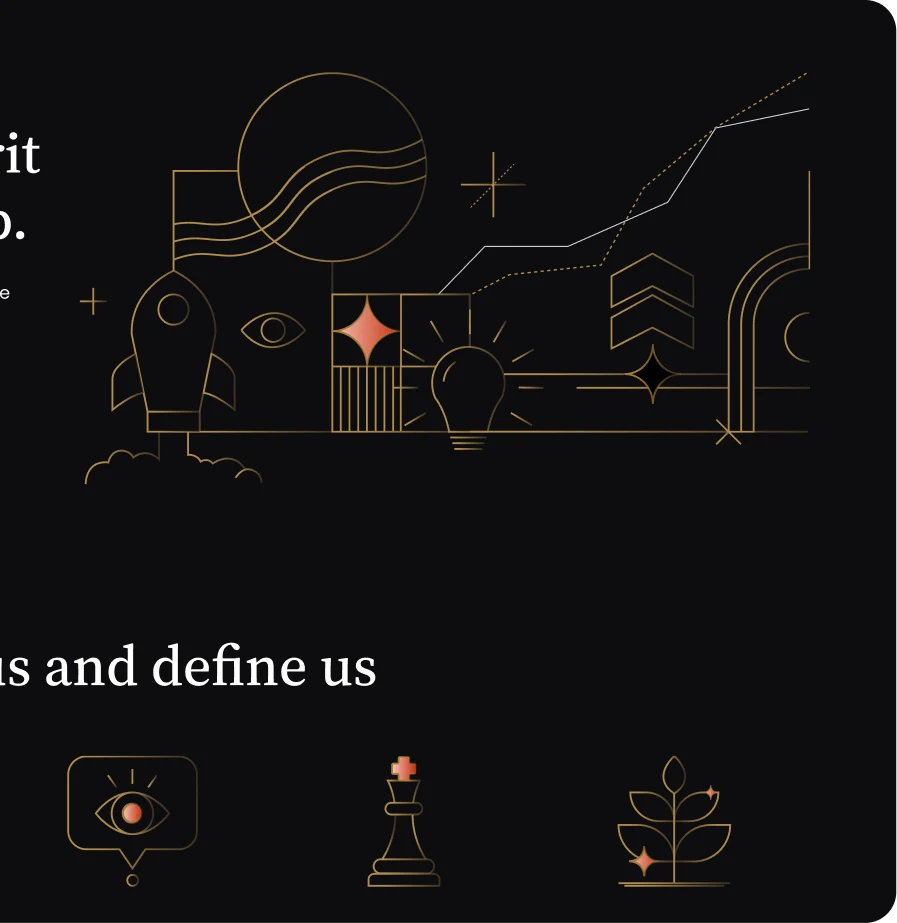
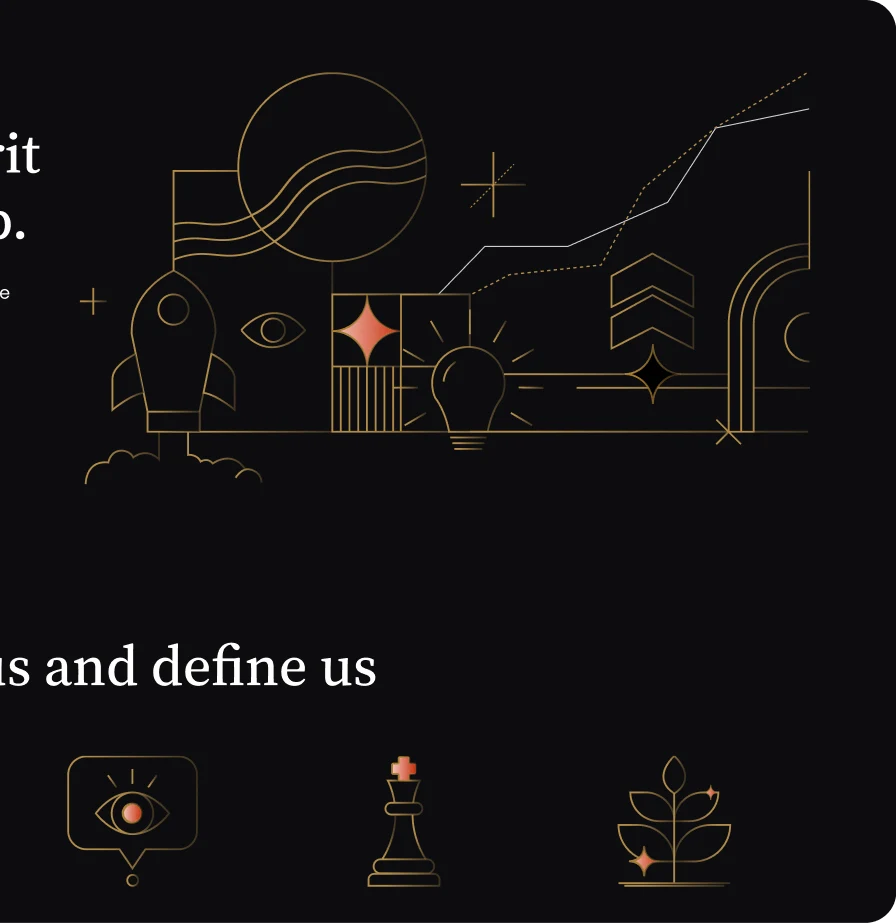
Work page thumbnails: Juice, Hurun and Godrej updated to the latest Figma
- Juice AI: heading now "Rethinking Creative Production" (was the Aadhaar line),
  re-exported at 2x and placed at its new bounds.
- Hurun India: all five layers re-exported from Figma (artwork updated).
- Godrej Wealth: feature-card group re-exported without the pointer.
Each card rebuilt from its layers matches Figma's render (mean diff 1.6-2.8/255).

diff --git a/src/content/workLayers.ts b/src/content/workLayers.ts
@@ -107,9 +107,9 @@ export const WORK_LAYERS: Record<string, WorkCardLayers> = {
       },
       {
         "src": "/images/work/layers/juice-ai/99548.webp",
-        "x": 22.768,
-        "y": 10.266,
-        "w": 57.385,
+        "x": 30.875,
+        "y": 10.219,
+        "w": 40.974,
         "h": 15.125,
         "d": 0.6
       },
